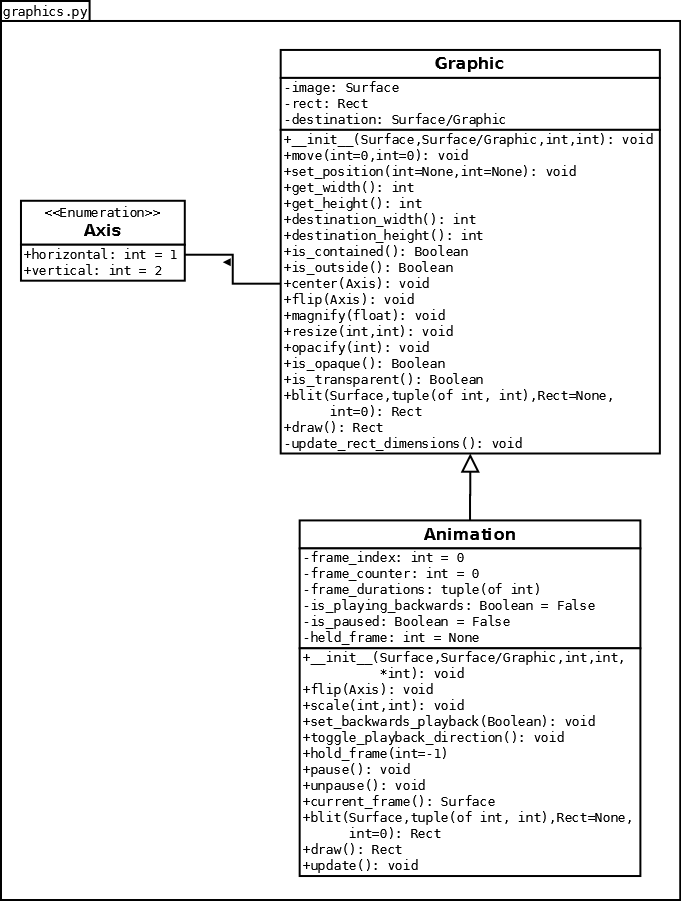
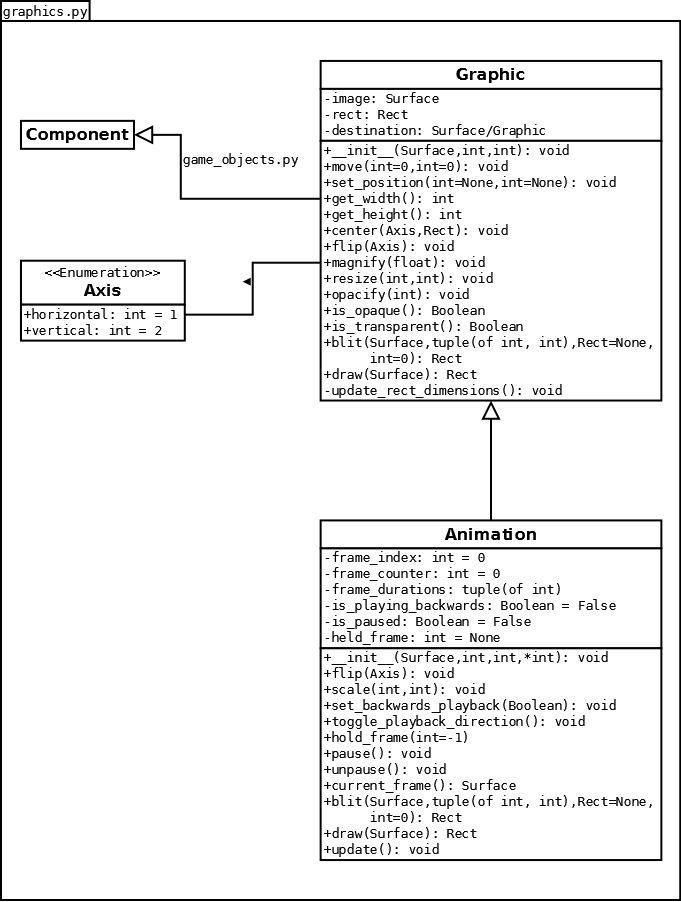
Rework Graphic into a Component subclass

diff --git a/graphics.py b/graphics.py
@@ -5,6 +5,7 @@ import pygame.transform
 from enum import IntEnum
 from pygame.surface import Surface
 from pygame.rect import Rect
+from game_objects import Component
 
 
 class Axis(IntEnum):
@@ -13,41 +14,35 @@ class Axis(IntEnum):
     vertical = 2
 
 
-class Graphic(object):
+class Graphic(Component):
     """A 2D image that can draw itself onto a Surface or another
     Graphic.
 
     It will automatically keep track of its position relative to its
-    destination Surface/Graphic.
+    destination.
     Several effects can also be applied to it, such as flipping the
-    image or adding and reducing transparency.
+    image and adding or reducing transparency.
 
     Attributes:
         _image (Surface): Contains the Graphic's actual pixel data.
         _rect (Rect): Contains the Graphic's x and y-positions relative
-            to _destination, as well as its width and height.
-        _destination (Surface/Graphic): The visual object that will have
-            _image blitted on top of it. This Graphic will remain bound
-            to only one destination for its entire lifetime.
+            to its destination, as well as its width and height.
     """
-    def __init__(self, source, destination, x, y):
+    def __init__(self, source, x, y):
         """Declare and initialize instance variables.
 
         Args:
             source (Surface): Contains the 2D image associated with this
                 Graphic.
-            destination (Surface/Graphic): The visual object that this
-                Graphic will be drawn onto for the entire time it exists
-                in memory.
             x (int): The x-position of the Graphic's top-left corner
-                relative to its destination.
+                relative its destination.
             y (int): The y-position of the Graphic's top-left corner
-                relative to its destination.
+                relative its destination.
         """
+        super(Graphic, self).__init__()
         self._image = source.convert()
         self._image.set_alpha(255)
         self._rect = Rect(x, y, source.get_width(), source.get_height())
-        self._destination = destination
 
     def move(self, dx=0, dy=0):
         """Move the Graphic a set horizontal and/or vertical distance in
@@ -98,46 +93,9 @@ class Graphic(object):
     def get_height(self):
         return self._rect.height
 
-    def destination_width(self):
-        return self._destination.get_width()
-
-    def destination_height(self):
-        return self._destination.get_height()
-
-    def is_contained(self):
-        """Return a Boolean indicating whether the entire image is
-        within the bounds of its destination.
-
-        For example, if this Graphic's destination is the Surface
-        representing the screen, this method will return True if every
-        pixel of the image is on-screen.
-        """
-        bounds = Rect(0, 0, self.destination_width(),
-            self.destination_height())
-        if bounds.contains(self._rect):
-            return True
-        else:
-            return False
-
-    def is_outside(self):
-        """Return a Boolean indicating whether the entire image is out
-        of the bounds of its destination.
-
-        For example, if this Graphic's destination is the Surface
-        representing the screen, this method will return True if all
-        pixels in the image are off-screen.
-        """
-        if ((self._rect.x + self.get_width() < 0) or
-                (self._rect.x > self.destination_width()) or
-                (self._rect.y + self.get_height() < 0) or
-                (self._rect.y > self.destination_height())):
-            return True
-        else:
-            return False
-
-    def center(self, axis):
-        """Center the image horizontally and/or vertically on its
-        destination.
+    def center(self, axis, container_rect):
+        """Center the image horizontally and/or vertically across an
+        area.
 
         Args:
             axis (Axis): A literal from the Axis enum for specifying
@@ -145,13 +103,18 @@ class Graphic(object):
                 or vertical plane.
                 To center the image on both planes, you can combine both
                 values using the | (bitwise or) operator.
+            container_rect (Rect): A Rect containing the position and
+                dimensions of the area that this Graphic will be
+                centered relative to.
         """
         if (axis & Axis.horizontal) == Axis.horizontal:
-            centered_x = (self.destination_width() - self.get_width()) / 2
+            centered_x = (container_rect.width - self.get_width()) / 2
+            centered_x += container_rect.x
             self.set_position(new_x=centered_x)
 
         if (axis & Axis.vertical) == Axis.vertical:
-            centered_y = (self.destination_height() - self.get_height()) / 2
+            centered_y = (container_rect.height - self.get_height()) / 2
+            centered_y += container_rect.y
             self.set_position(new_y=centered_y)
 
     def flip(self, axis):
@@ -257,19 +220,18 @@ class Graphic(object):
                 flags when blitting.
 
         Returns:
-            A Rect specifying the region of the game screen that was
-            drawn onto.
+            A Rect containing the region of this Graphic that was drawn
+            onto.
         """
-        x = position[0] + self._rect.x
-        y = position[1] + self._rect.y
-        return self._destination.blit(source, (x, y), rect, special_flags)
+        x = position[0]
+        y = position[1]
+        return self._image.blit(source, (x, y), rect, special_flags)
 
-    def draw(self):
+    def draw(self, destination):
         """Draw this Graphic's image onto of its destination.
 
         Returns:
-            A Rect specifying the region of the game screen that was
+            A Rect containing the region of the destination that was
             drawn onto.
         """
-        return self._destination.blit(self._image,
-            (self._rect.x, self._rect.y))
+        return destination.blit(self._image, (self._rect.x, self._rect.y))
